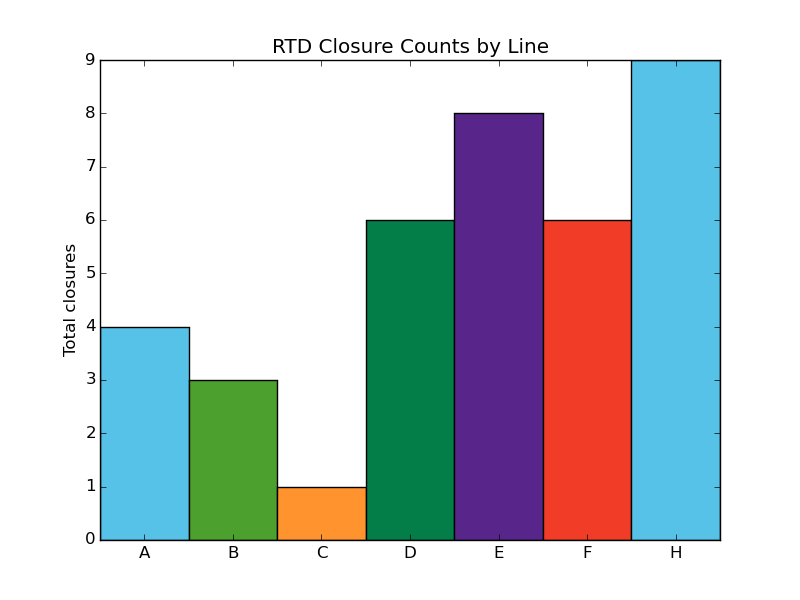
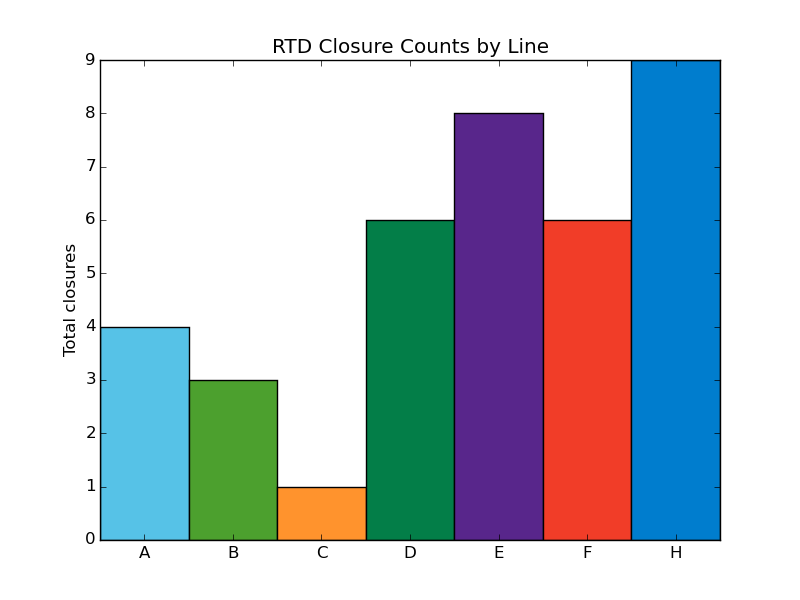
Fix off-by-one error in chart 4 coloring

Changed region(s): [[0.7812, 0.09, 0.9062, 0.9]]

diff --git a/analysis.py b/analysis.py
@@ -103,7 +103,7 @@ closures = data[data['type'] == 'closure']
 closures_total = closures.groupby('line')
 
 fig4, ax = plt.subplots()
-rects1 = ax.bar(ind, closures_total.size(), width, color=colors.values()[0:n-1])
+rects1 = ax.bar(ind, closures_total.size(), width, color=colors.values()[0:n])
 ax.set_xticks(ind + 0.5)
 ax.set_xticklabels(closures_total.size().index)
 ax.set_ylabel('Total closures')
